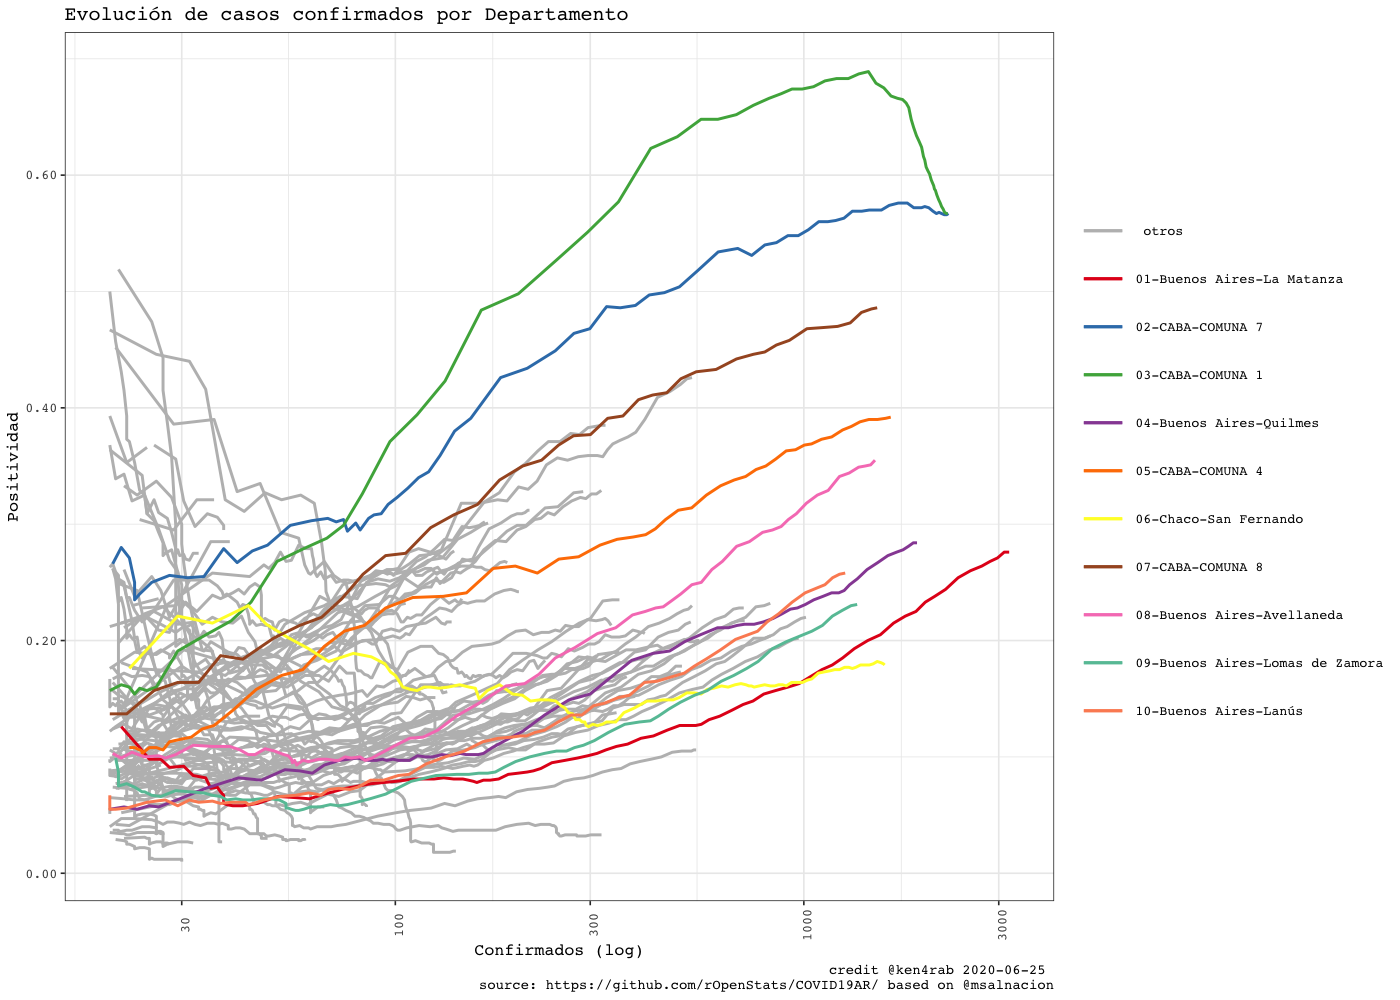
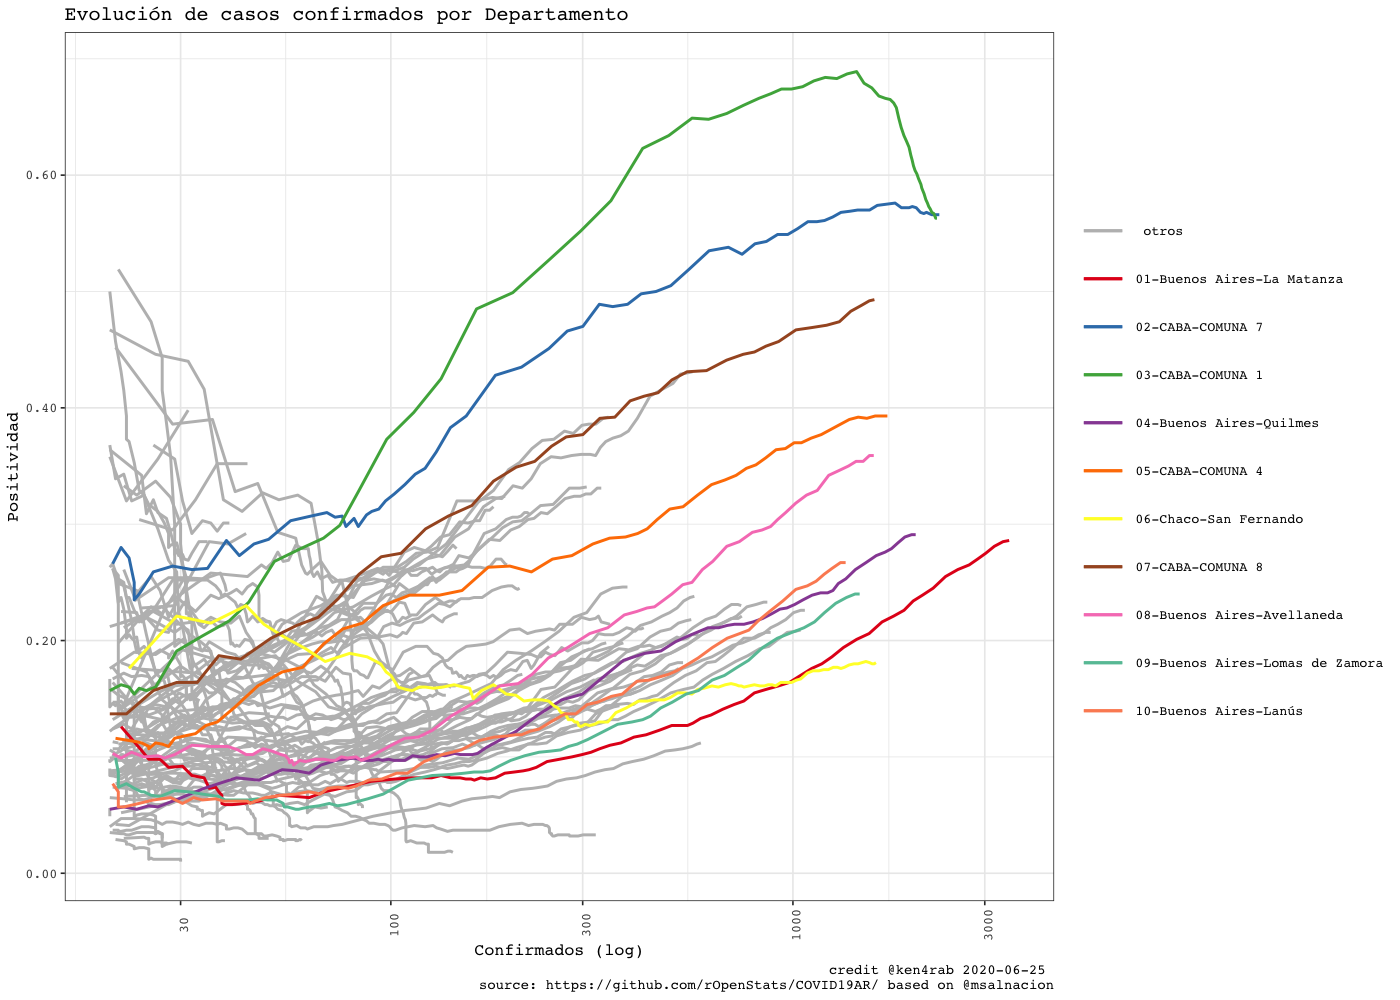
Updated up to 2020-06-25

diff --git a/README.md b/README.md
@@ -88,11 +88,11 @@ lgr::threshold("info", lgr::get_logger("COVID19ARCurator"))
 covid19.curator <- COVID19ARCurator$new(download.new.data = FALSE)
 
 dummy <- covid19.curator$loadData()
-#> INFO  [20:50:03.909] Exists dest path? {dest.path: ~/.R/COVID19AR/Covid19Casos.csv, exists.dest.path: TRUE}
+#> INFO  [08:28:18.119] Exists dest path? {dest.path: ~/.R/COVID19AR/Covid19Casos.csv, exists.dest.path: TRUE}
 dummy <- covid19.curator$curateData()
-#> INFO  [20:50:06.581] Normalize 
-#> INFO  [20:50:06.975] checkSoundness 
-#> INFO  [20:50:07.231] Mutating data
+#> INFO  [08:28:20.525] Normalize 
+#> INFO  [08:28:20.937] checkSoundness 
+#> INFO  [08:28:21.195] Mutating data
 # Dates of current processed file
 max(covid19.curator$data$fecha_apertura, na.rm = TRUE)
 #> [1] "2020-06-25"
@@ -212,7 +212,7 @@ rg$getDepartamentosCrossSectionConfirmedPostitivyPlot()
 
 ``` r
 covid19.ar.summary <- covid19.curator$makeSummary(group.vars = c("sepi_apertura"))
-#> INFO  [20:50:54.651] Processing {current.group: }
+#> INFO  [08:29:18.835] Processing {current.group: }
 nrow(covid19.ar.summary)
 #> [1] 17
 porc.cols <- names(covid19.ar.summary)[grep("porc", names(covid19.ar.summary))]
@@ -246,31 +246,31 @@ kable(covid19.ar.summary %>%
 
 ```r
 covid19.ar.summary <- covid19.curator$makeSummary(group.vars = c("residencia_provincia_nombre", "sepi_apertura"))
-#> INFO  [20:51:14.456] Processing {current.group: residencia_provincia_nombre = Buenos Aires}
-#> INFO  [20:51:23.372] Processing {current.group: residencia_provincia_nombre = CABA}
-#> INFO  [20:51:28.946] Processing {current.group: residencia_provincia_nombre = Catamarca}
-#> INFO  [20:51:30.000] Processing {current.group: residencia_provincia_nombre = Chaco}
-#> INFO  [20:51:33.181] Processing {current.group: residencia_provincia_nombre = Chubut}
-#> INFO  [20:51:35.008] Processing {current.group: residencia_provincia_nombre = Córdoba}
-#> INFO  [20:51:39.892] Processing {current.group: residencia_provincia_nombre = Corrientes}
-#> INFO  [20:51:42.218] Processing {current.group: residencia_provincia_nombre = Entre Ríos}
-#> INFO  [20:51:44.423] Processing {current.group: residencia_provincia_nombre = Formosa}
-#> INFO  [20:51:45.825] Processing {current.group: residencia_provincia_nombre = Jujuy}
-#> INFO  [20:51:48.022] Processing {current.group: residencia_provincia_nombre = La Pampa}
-#> INFO  [20:51:50.007] Processing {current.group: residencia_provincia_nombre = La Rioja}
-#> INFO  [20:51:52.038] Processing {current.group: residencia_provincia_nombre = Mendoza}
-#> INFO  [20:51:54.224] Processing {current.group: residencia_provincia_nombre = Misiones}
-#> INFO  [20:51:56.112] Processing {current.group: residencia_provincia_nombre = Neuquén}
-#> INFO  [20:51:58.141] Processing {current.group: residencia_provincia_nombre = Río Negro}
-#> INFO  [20:52:00.462] Processing {current.group: residencia_provincia_nombre = Salta}
-#> INFO  [20:52:02.364] Processing {current.group: residencia_provincia_nombre = San Juan}
-#> INFO  [20:52:04.160] Processing {current.group: residencia_provincia_nombre = San Luis}
-#> INFO  [20:52:06.059] Processing {current.group: residencia_provincia_nombre = Santa Cruz}
-#> INFO  [20:52:08.285] Processing {current.group: residencia_provincia_nombre = Santa Fe}
-#> INFO  [20:52:11.016] Processing {current.group: residencia_provincia_nombre = Santiago del Estero}
-#> INFO  [20:52:12.946] Processing {current.group: residencia_provincia_nombre = SIN ESPECIFICAR}
-#> INFO  [20:52:14.872] Processing {current.group: residencia_provincia_nombre = Tierra del Fuego}
-#> INFO  [20:52:17.044] Processing {current.group: residencia_provincia_nombre = Tucumán}
+#> INFO  [08:29:35.838] Processing {current.group: residencia_provincia_nombre = Buenos Aires}
+#> INFO  [08:29:44.109] Processing {current.group: residencia_provincia_nombre = CABA}
+#> INFO  [08:29:49.654] Processing {current.group: residencia_provincia_nombre = Catamarca}
+#> INFO  [08:29:50.866] Processing {current.group: residencia_provincia_nombre = Chaco}
+#> INFO  [08:29:54.134] Processing {current.group: residencia_provincia_nombre = Chubut}
+#> INFO  [08:29:56.470] Processing {current.group: residencia_provincia_nombre = Córdoba}
+#> INFO  [08:30:00.497] Processing {current.group: residencia_provincia_nombre = Corrientes}
+#> INFO  [08:30:02.988] Processing {current.group: residencia_provincia_nombre = Entre Ríos}
+#> INFO  [08:30:05.625] Processing {current.group: residencia_provincia_nombre = Formosa}
+#> INFO  [08:30:07.246] Processing {current.group: residencia_provincia_nombre = Jujuy}
+#> INFO  [08:30:09.454] Processing {current.group: residencia_provincia_nombre = La Pampa}
+#> INFO  [08:30:11.467] Processing {current.group: residencia_provincia_nombre = La Rioja}
+#> INFO  [08:30:13.730] Processing {current.group: residencia_provincia_nombre = Mendoza}
+#> INFO  [08:30:16.130] Processing {current.group: residencia_provincia_nombre = Misiones}
+#> INFO  [08:30:17.957] Processing {current.group: residencia_provincia_nombre = Neuquén}
+#> INFO  [08:30:19.952] Processing {current.group: residencia_provincia_nombre = Río Negro}
+#> INFO  [08:30:22.290] Processing {current.group: residencia_provincia_nombre = Salta}
+#> INFO  [08:30:24.526] Processing {current.group: residencia_provincia_nombre = San Juan}
+#> INFO  [08:30:26.735] Processing {current.group: residencia_provincia_nombre = San Luis}
+#> INFO  [08:30:29.147] Processing {current.group: residencia_provincia_nombre = Santa Cruz}
+#> INFO  [08:30:31.407] Processing {current.group: residencia_provincia_nombre = Santa Fe}
+#> INFO  [08:30:34.395] Processing {current.group: residencia_provincia_nombre = Santiago del Estero}
+#> INFO  [08:30:36.460] Processing {current.group: residencia_provincia_nombre = SIN ESPECIFICAR}
+#> INFO  [08:30:38.462] Processing {current.group: residencia_provincia_nombre = Tierra del Fuego}
+#> INFO  [08:30:40.768] Processing {current.group: residencia_provincia_nombre = Tucumán}
 nrow(covid19.ar.summary)
 #> [1] 360
 porc.cols <- names(covid19.ar.summary)[grep("porc", names(covid19.ar.summary))]
